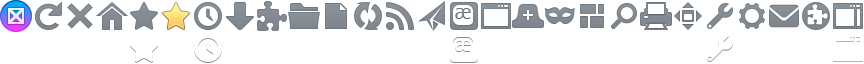
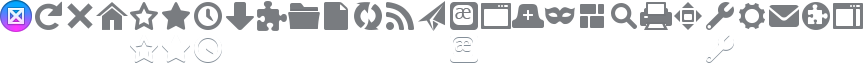
[Australis] Bug 969904: Update Bookmark Star States. r=mikedeboer
UltraBlame original commit: 02be46ac2b5547ea7aee6881751cc4dc4359ba4b

diff --git a/browser/themes/osx/browser.css b/browser/themes/osx/browser.css
@@ -1056,11 +1056,11 @@ toolbar .toolbarbutton-1 > .toolbarbutton-menubutton-dropmarker > .dropmarker-ic
 
   #bookmarks-menu-button[cui-areatype="menu-panel"],
   toolbarpaletteitem[place="palette"] > #bookmarks-menu-button {
-    -moz-image-region: rect(0px, 320px, 64px, 256px);
+    -moz-image-region: rect(0px, 384px, 64px, 320px);
   }
 
   #bookmarks-menu-button[cui-areatype="menu-panel"][panel-multiview-anchor=true] {
-    -moz-image-region: rect(64px, 320px, 128px, 256px);
+    -moz-image-region: rect(64px, 384px, 128px, 320px);
   }
 
   #history-panelmenu[cui-areatype="menu-panel"],
@@ -1936,7 +1936,7 @@ toolbarbutton[sdk-button="true"][cui-areatype="toolbar"] > .toolbarbutton-icon {
 .ac-result-type-bookmark,
 .autocomplete-treebody::-moz-tree-image(bookmark, treecolAutoCompleteImage) {
   list-style-image: url("chrome://browser/skin/places/star-icons.png");
-  -moz-image-region: rect(0, 32px, 16px, 16px);
+  -moz-image-region: rect(0, 48px, 16px, 32px);
 }
 
 .ac-result-type-keyword,
@@ -2248,6 +2248,13 @@ richlistitem[type~="action"][actiontype="switchtab"][selected="true"] > .ac-url-
 
 #editBookmarkPanelStarIcon[unstarred] {
   list-style-image: url("chrome://browser/skin/places/unstarred48.png");
+}
+
+@media (min-resolution: 2dppx) {
+  #editBookmarkPanelStarIcon {
+    list-style-image: url("chrome://browser/skin/places/starred48@2x.png");
+    -moz-image-region: rect(0px 96px 96px 0px);
+  }
 }
 
 #editBookmarkPanelTitle {

diff --git a/browser/themes/windows/browser.css b/browser/themes/windows/browser.css
@@ -1300,9 +1300,14 @@ html|*.urlbar-input:-moz-lwtheme::-moz-placeholder,
 .ac-result-type-bookmark,
 .autocomplete-treebody::-moz-tree-image(bookmark, treecolAutoCompleteImage) {
   list-style-image: url("chrome://browser/skin/places/bookmark.png");
-  -moz-image-region: rect(0px 48px 16px 32px);
+  -moz-image-region: rect(0px 32px 16px 16px);
   width: 16px;
   height: 16px;
+}
+
+richlistitem[selected="true"][current="true"] > .ac-title-box > .ac-result-type-bookmark,
+.autocomplete-treebody::-moz-tree-image(selected, current, bookmark, treecolAutoCompleteImage) {
+  -moz-image-region: rect(0px 48px 16px 32px);
 }
 
 .ac-result-type-keyword,
@@ -1580,7 +1585,7 @@ toolbarbutton[type="socialmark"] > .toolbarbutton-icon {
 }
 
 #bookmarks-menu-button.bookmark-item[starred] {
-  -moz-image-region: rect(0px 48px 16px 32px);
+  -moz-image-region: rect(0px 32px 16px 16px);
 }
 
 #bookmarks-menu-button.bookmark-item > .toolbarbutton-menubutton-button > .toolbarbutton-icon {

diff --git a/browser/themes/shared/menupanel.inc.css b/browser/themes/shared/menupanel.inc.css
@@ -13,11 +13,11 @@ toolbarpaletteitem[place="palette"] > #home-button {
 
 #bookmarks-menu-button[cui-areatype="menu-panel"],
 toolbarpaletteitem[place="palette"] > #bookmarks-menu-button {
-  -moz-image-region: rect(0px, 160px, 32px, 128px);
+  -moz-image-region: rect(0px, 192px, 32px, 160px);
 }
 
 #bookmarks-menu-button[cui-areatype="menu-panel"][panel-multiview-anchor=true] {
-  -moz-image-region: rect(32px, 160px, 64px, 128px);
+  -moz-image-region: rect(32px, 192px, 64px, 160px);
 }
 
 #history-panelmenu[cui-areatype="menu-panel"],
